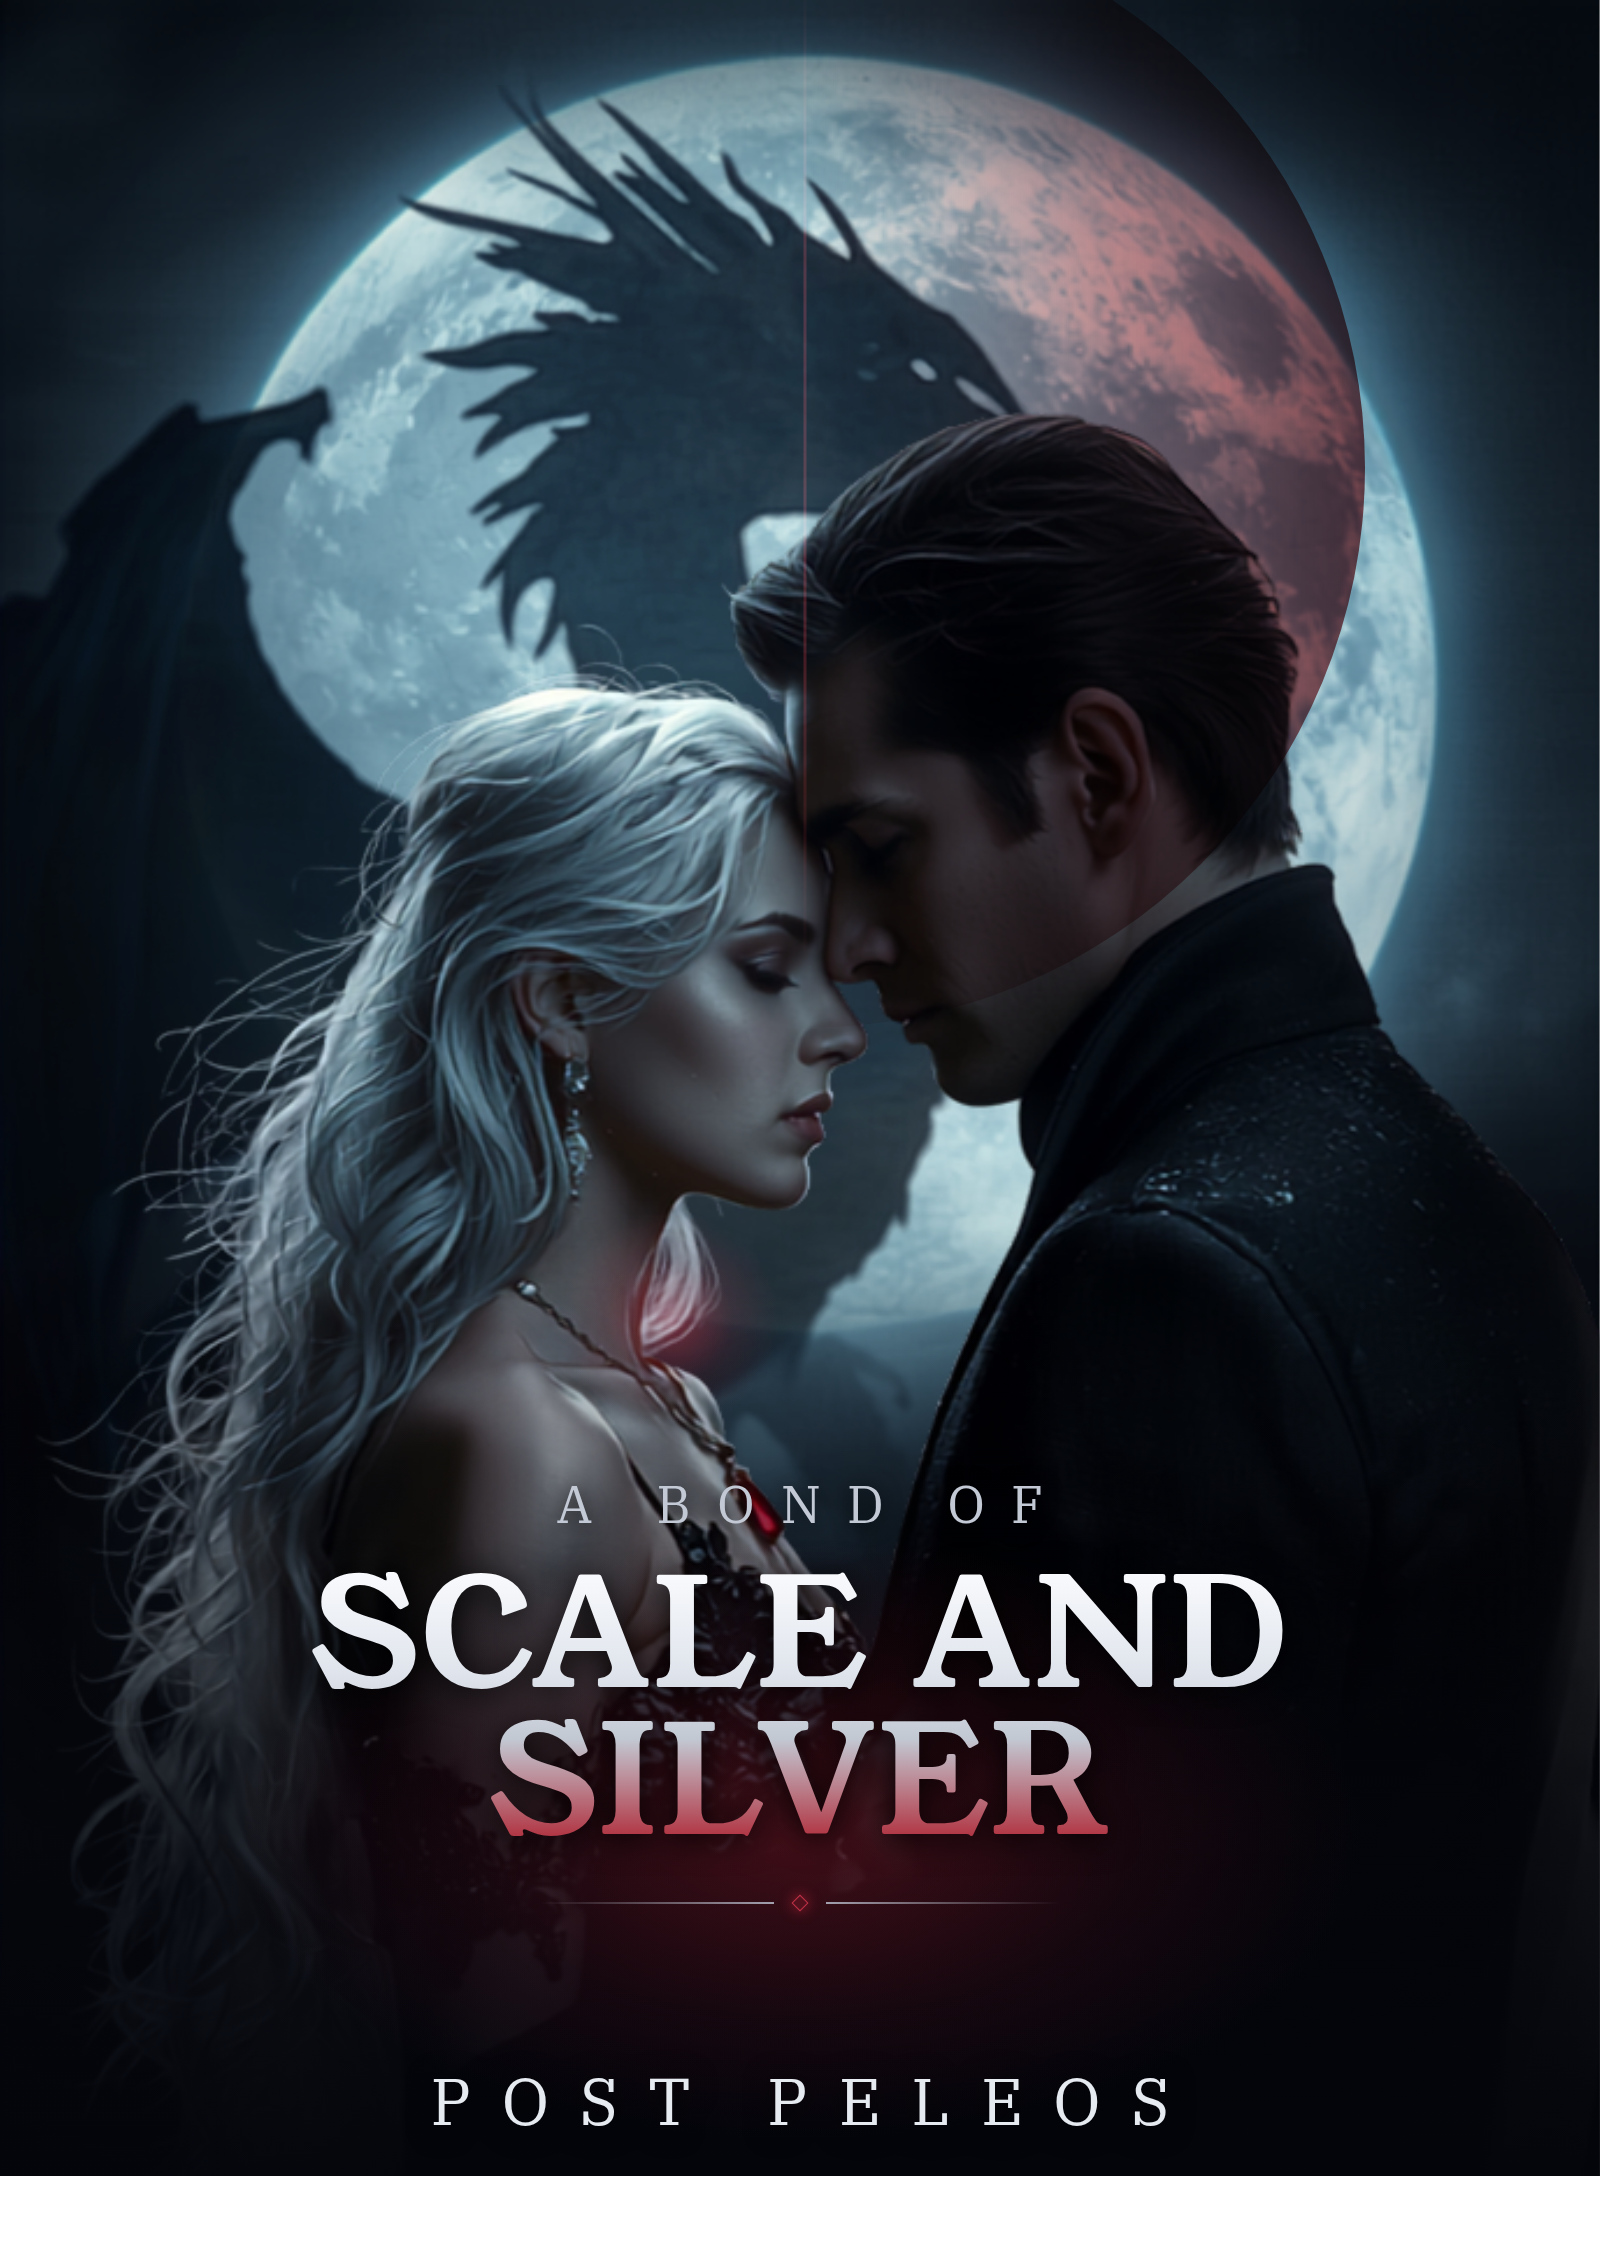
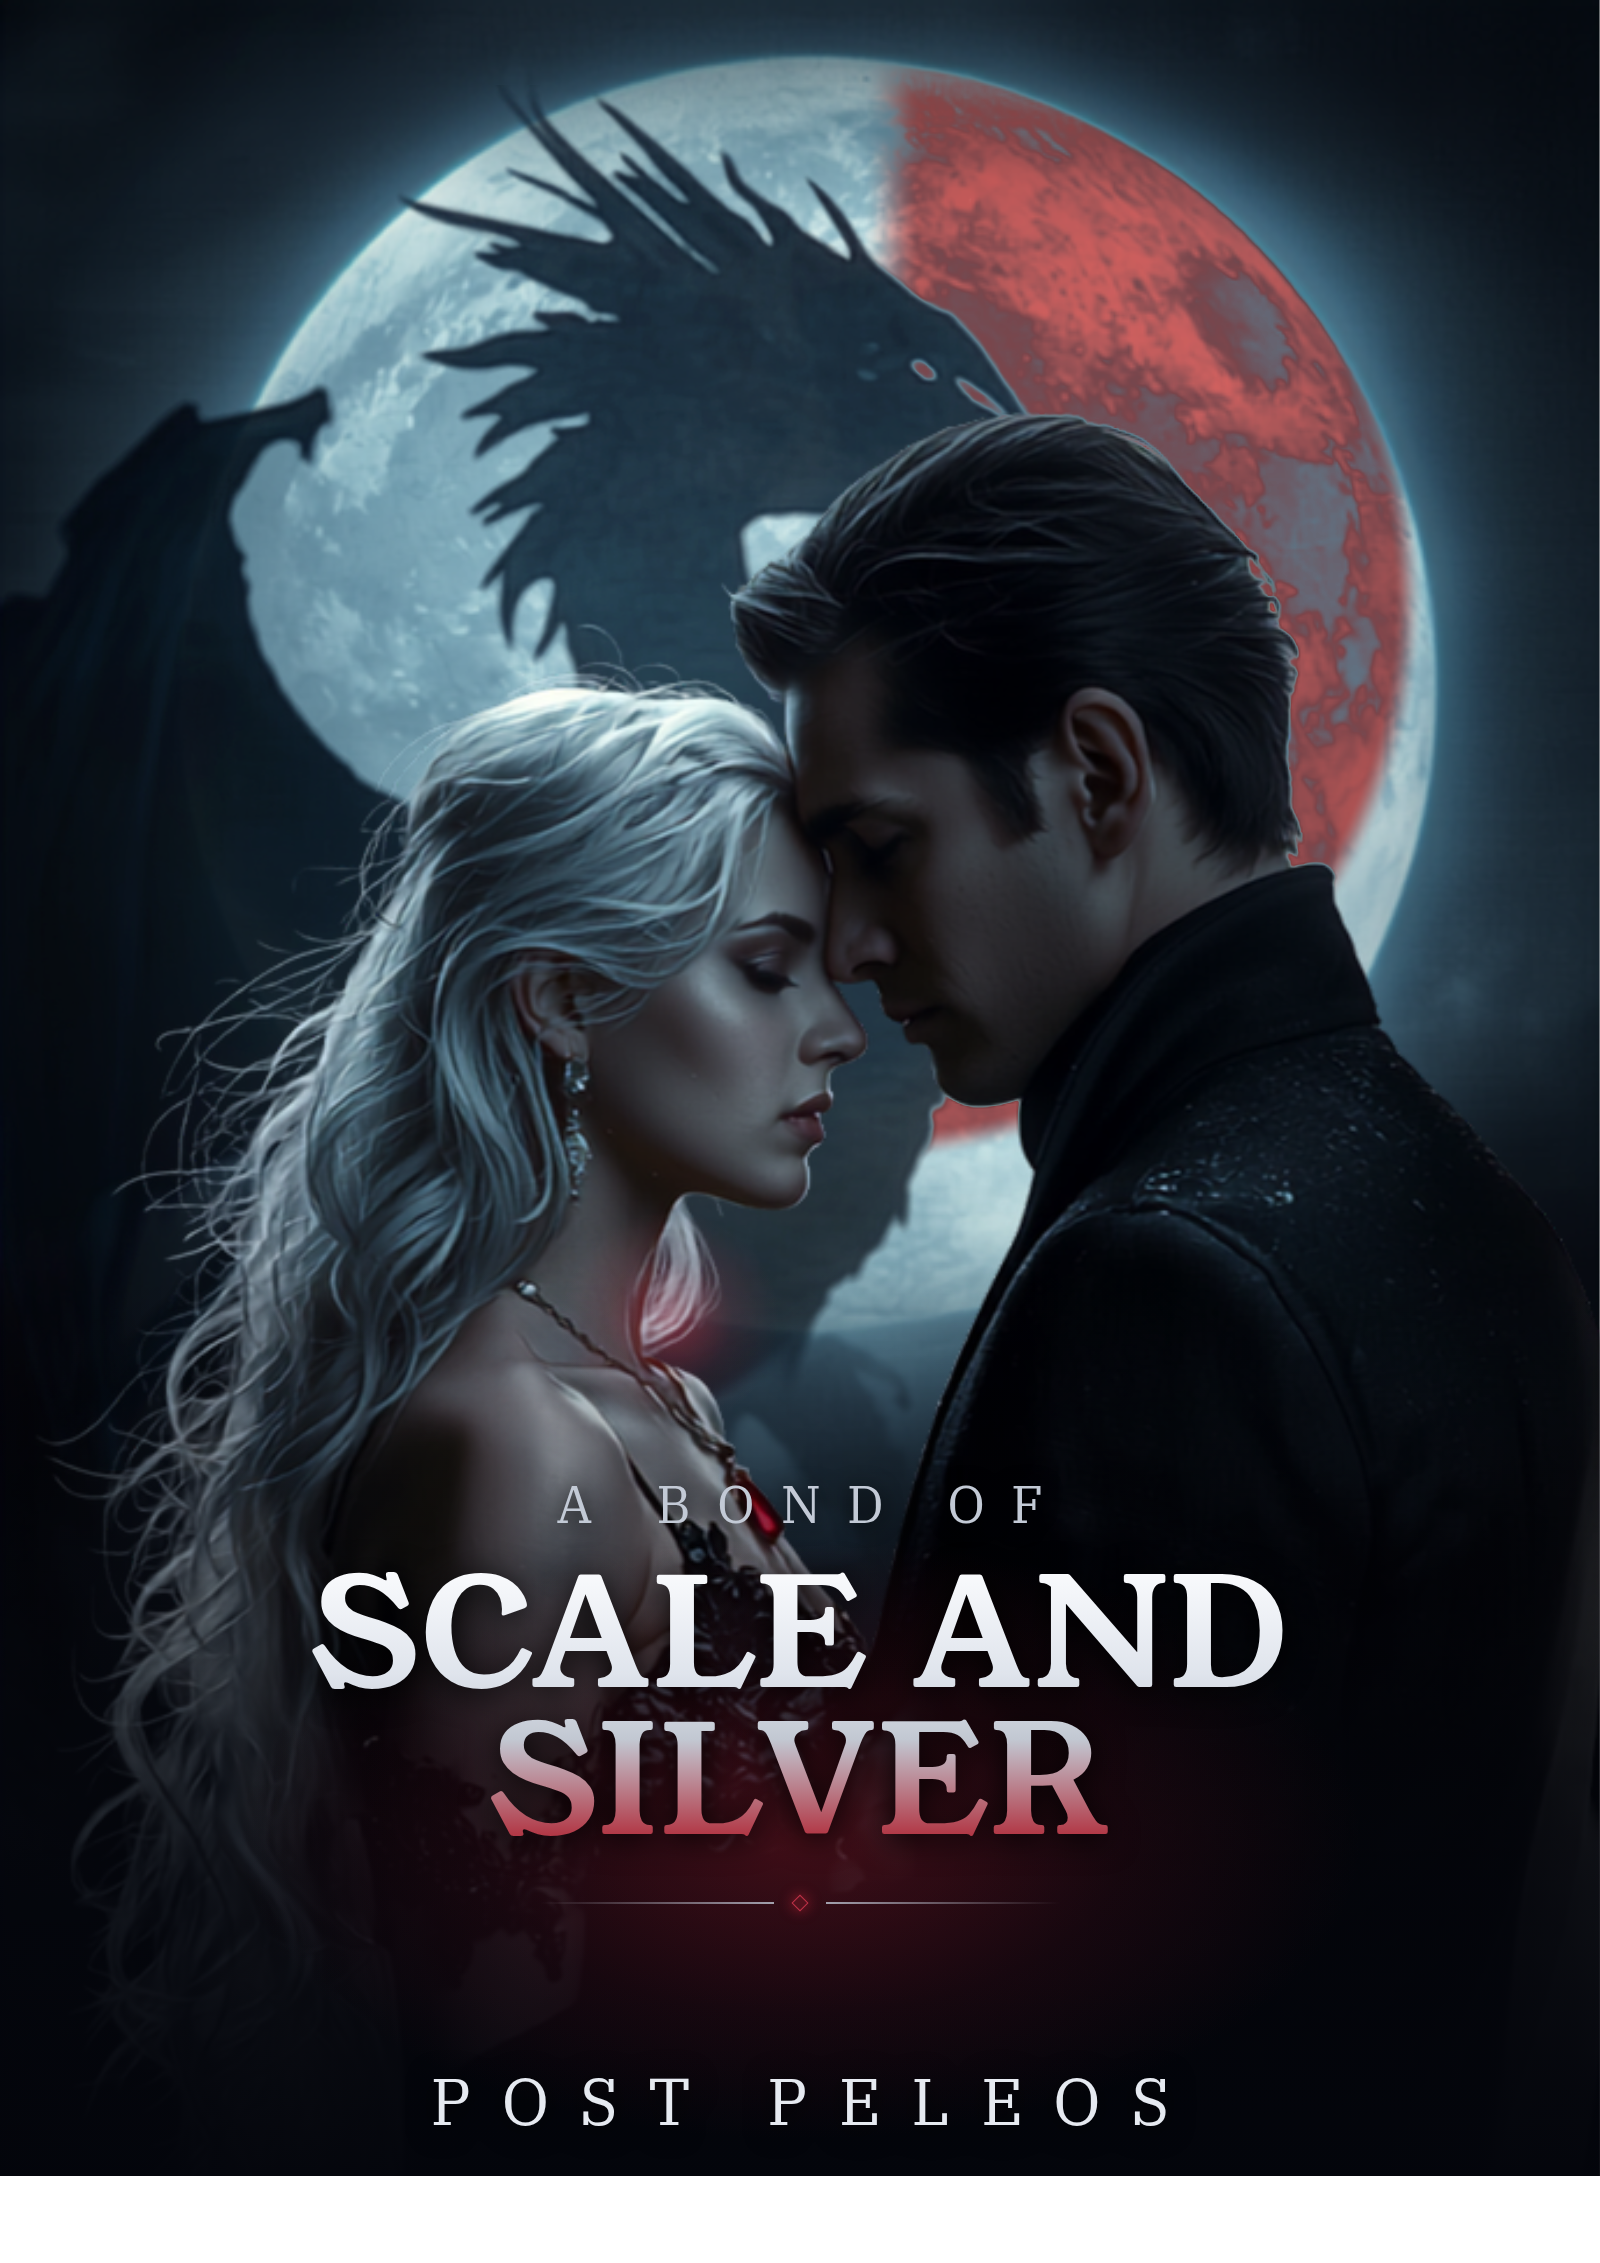
Cover: fix blood-moon uniformity — mask tint to the moon disc, even oxblood
Author flagged the red wasn't uniform. Replaced the CSS half-circle gradient (off-
center clip + gradient) with a pixel-space bake: measured the moon disc
(center 861,600 r566), tinted only the bright COOL moon pixels on the right half
(so the man's face/hair are untouched), even oxblood, feathered seam/rim. Baked
into front-art-bloodmoon.png; compose now uses it. Updated
front-cover-post-peleos-bloodmoon.png.

Claude-Session: https://claude.ai/code/session_01Y2TtCCo4R7BoQwscth6KMg

Changed region(s): [[0.5312, 0.0309, 0.9062, 0.4021], [0.625, 0.3093, 0.75, 0.4331], [0.5625, 0.464, 0.625, 0.5259]]

diff --git a/book/genesis/scale-and-silver/delivery/cover/compose_cover.py b/book/genesis/scale-and-silver/delivery/cover/compose_cover.py
@@ -4,7 +4,7 @@ import base64, os
 HERE = os.path.dirname(__file__)
 FONT_DIR = "/mnt/skills/examples/canvas-design/canvas-fonts"
 def b64(p): return base64.b64encode(open(p, "rb").read()).decode()
-art   = b64(os.path.join(HERE, "art_only.png"))
+art   = b64(os.path.join(HERE, "art_bloodmoon.png"))
 young = b64(f"{FONT_DIR}/YoungSerif-Regular.ttf")
 plex  = b64(f"{FONT_DIR}/IBMPlexSerif-Regular.ttf")
 
@@ -50,7 +50,6 @@ html,body{{width:1600px;height:2263px;}}
   filter:drop-shadow(0 3px 14px rgba(0,0,0,.95));}}
 </style></head><body>
 <div class="cover">
-  <div class="moonclip"><div class="rh"></div><div class="seam"></div></div>
   <div class="gemglow"></div>
   <div class="scrim"></div>
   <div class="redglow"></div>